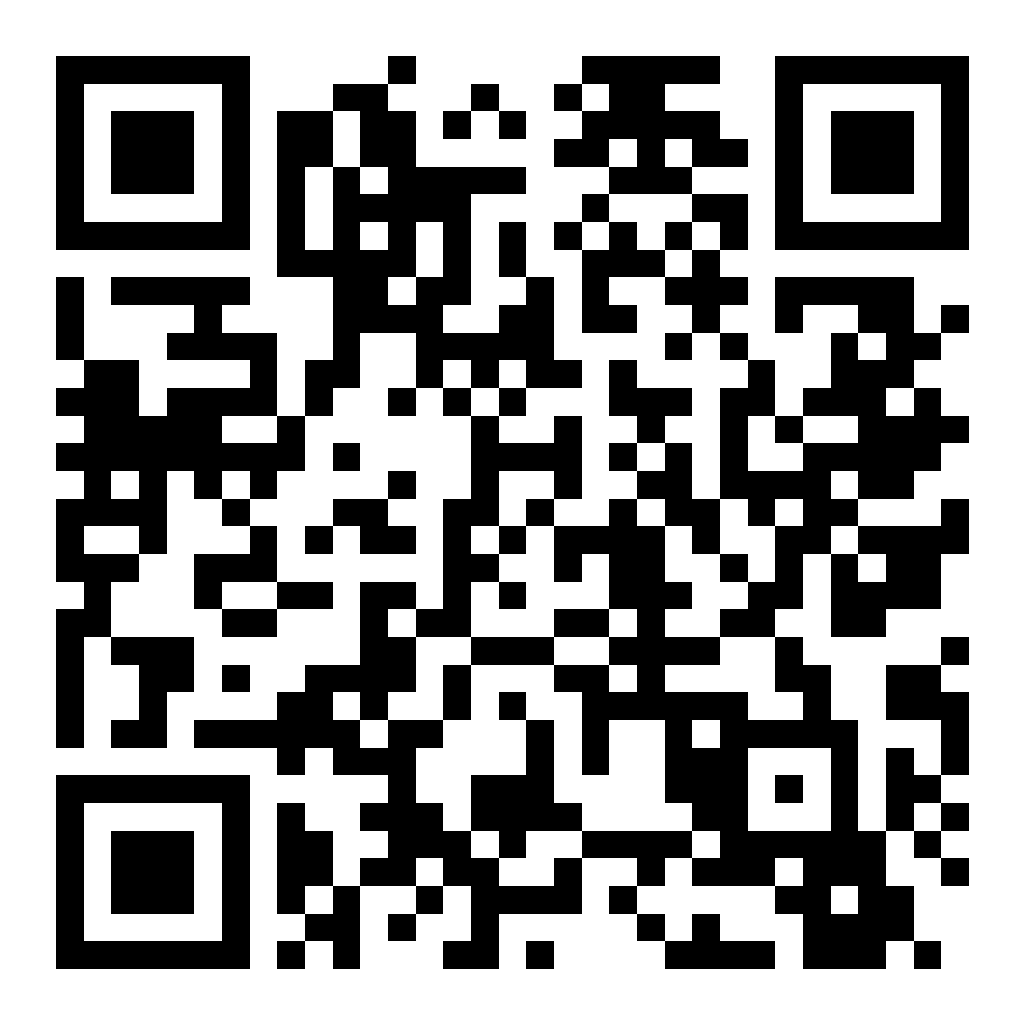
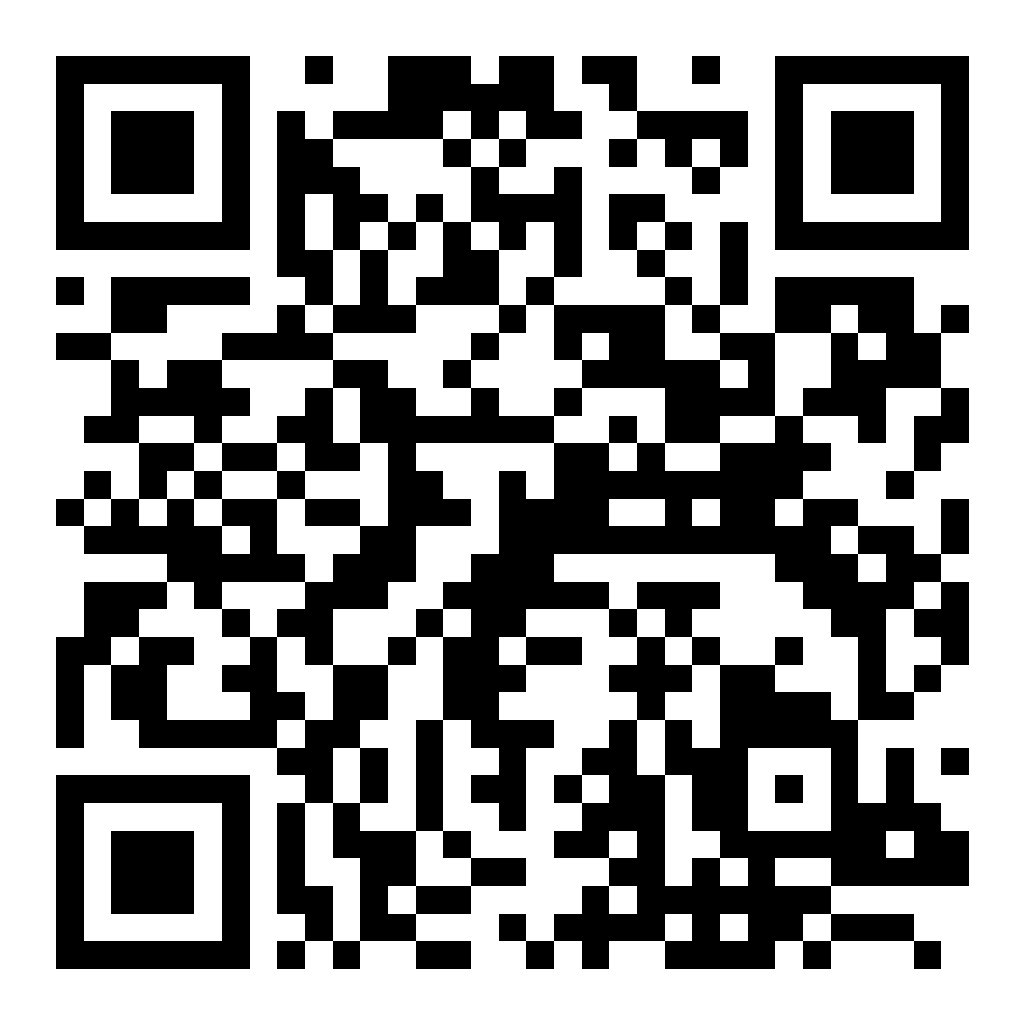
Update all QR codes to use HTTPS and www prefix: https://www.chittorgarh-tourism.in

Changed region(s): [[0.0312, 0.0312, 0.9688, 0.9688]]

diff --git a/scripts/generate_requested_qrs.js b/scripts/generate_requested_qrs.js
@@ -2,7 +2,7 @@ const QRCode = require('qrcode');
 const fs = require('fs');
 const path = require('path');
 
-const baseUrl = "http://chittorgarh-tourism.in";
+const baseUrl = "https://www.chittorgarh-tourism.in";
 const qrDir = path.join(process.cwd(), 'public', 'Qr_Codes');
 
 // Ensure directory exists
